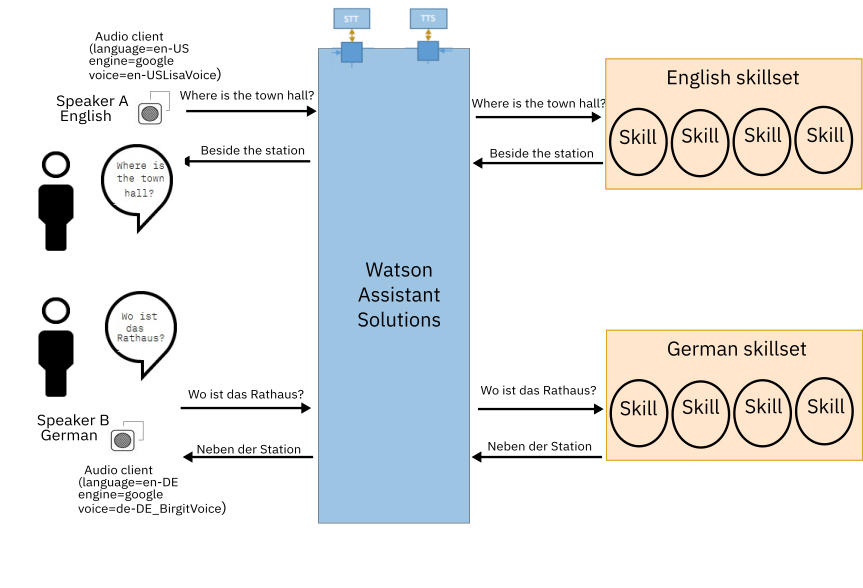
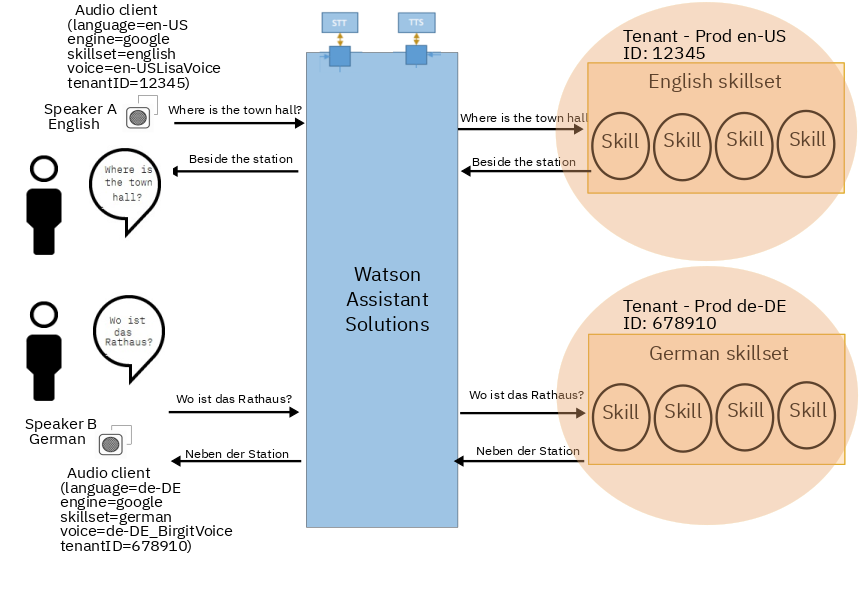
supported_lanaguages

diff --git a/_content/get-started/supported_languages.md b/_content/get-started/supported_languages.md
@@ -4,30 +4,36 @@ weight: 10
 ---
 Out-of-the box, the built-in skills that are available with Watson Assistant Solutions are in English only.  However, Watson Assistant Solutions provides the building blocks for you to develop an assistant that supports multiple languages. 
 
-### Conversing by text
+### Conversing by text only
 
-In some assistants, users converse by text only.  To support multiple languages, add language support to your custom skills.  Follow these guidelines:
+With some assistants, users converse by text only.  To support multiple languages, follow these guidelines:
 
-- Verify that the NLU engines support your chosen languages.  For the Watson Assistant NLU engine, see the [Supported languages](https://console.bluemix.net/docs/services/conversation/lang-support.html#changing-a-workspace-language) topic.
-- Create a separate skill for each language.  For example, if your assistant provides an events skill, create a separate German events skill and an English events skill. 
-- Use a single NLU engine for each skill. In each language version, the intent names, entity names, and dialog nodes must be in English.
-- Create a skillset for each language.
+1. Add language support to your custom skills
+    1. Verify that the NLU engines you plan to use support your chosen languages.  For the Watson Assistant NLU engine, see the [Supported languages](https://console.bluemix.net/docs/services/conversation/lang-support.html#changing-a-workspace-language) topic.
+    2. Create a separate skill for each language.  For example, if your assistant provides an events skill, create a separate German events skill and an English events skill. 
+    3. Use a single NLU engine in each skill. In each language version, the intent names, entity names, and dialog nodes must be in English.
+    4. Create a skillset for each language and assign skills to the skillsets based on language.
+2. Send [converse requests](https://watson-personal-assistant-toolkit.mybluemix.net/docs/#/Converse/skillSetConverse) from your chat interface to the appropriate skillset. 
 
-Figure 1 shows two users conversing by text with an assistant.  The utterance in German is routed to the German skill, which is the skill that returns the highest confidence score. 
+Figure 1 shows two users conversing by text with an assistant.  The utterance in German is routed to the skill in the German skillset that returns the highest confidence score.
 
 Figure 1 - Chat by text with a multi-language assistant
 ![Routing by text](languages_text.png)
 
-**Note**: You can specify the language in the [converse request](https://watson-personal-assistant.github.io/developer/reference/JSON_formats/#1-converse-request-from-a-client-device-to-the-routing-core) from the client device. However, the routing core does not currently use language in its routing algorithm.
+**Note**: You can specify the language in the converse request to a skillset from a client device. However, the routing core does not currently use language in its routing algorithm.
 
 ### Conversing by voice
 
-In many assistants, users converse by voice.  To add multi-langauge support, follow these guidelines:
+With many AI assistants, users converse by voice through an audio client.  Currently, each audio client only supports a single language.  To support multiple languages for voice conversations, designate a separate tenant for each language version. Associate each audio client with the appropriate tenant. For example, associate a German audio client with the German tenant.
 
-- To accept audio input in multiple languages, verify that your STT engine, either [Google](ttps://cloud.google.com/speech-to-text/docs/languages) or [Watson](https://console.bluemix.net/docs/services/speech-to-text/index.html#about), supports your chosen languages.
-- To provide audio responses, verify that the [Watson TTS engine](https://console.bluemix.net/docs/services/text-to-speech/http.html#voices) supports your chosen languages. 
-- Determine what language each audio client will support. In its [configuration file](https://watson-personal-assistant.github.io/developer/audio/config_properties/), specify the language, the STT engine and the TTS voice to use.
-- Add language support to your custom skills. See the [Conversing by text](#conversing-by-text) section.
+To set up multi-lanaguage support, follow these guidelines:
+
+1. To accept audio input in multiple languages, verify that your STT engine, either [Google](ttps://cloud.google.com/speech-to-text/docs/languages) or [Watson](https://console.bluemix.net/docs/services/speech-to-text/index.html#about), supports your chosen languages.
+2. To provide audio responses, verify that the [Watson TTS engine](https://console.bluemix.net/docs/services/text-to-speech/http.html#voices) supports your chosen languages.  Determine the voice to use for each language.
+3. Request a separate tenant for each language you plan to support.
+4. Create a skillset in each tenant for the language the tenant supports. 
+5. In the [configuration file](https://watson-personal-assistant.github.io/developer/audio/config_properties/) of the audio client, specify the tenant ID, the skillset name, the STT engine, and the TTS voice to use. 
+6. Add language support to your custom skills. See the [Conversing by text](#conversing-by-text) section.
 
 Figure 2 shows two users conversing with an assistant by audio.  The utterance in German is routed from speaker B to the STT engine for conversion to text. Next, it is routed to the German skillset.  The response is routed to the TTS engine.  The speaker plays back the response in German.
 
